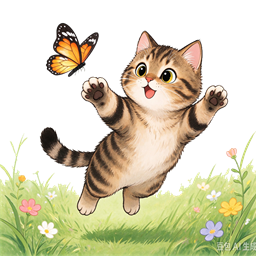
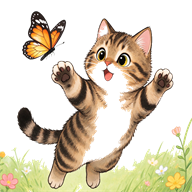
悬浮栏右键菜单加「主题」子菜单；装饰图统一成 192×192（与熊猫一致）
1) 主题切换菜单
   - 右键菜单：中文输入 / 简繁输出 / 主题 ▸（熊猫（默认）·狸花猫·中华田园犬·丹顶鹤，当前项打勾）/ 设置… / 版本号；
   - 命令 id 100+n = 切到第 n 套主题（顺序与 TSF 里 OnBarClick 的表、Settings::Theme 取值一致）；
   - 切换时写 config.ini + 本进程 ApplySettings + BroadcastSettingsReload() 通知其它进程的
     悬浮栏/候选窗一起重读（等于设置窗口保存时那套机制）。

2) 装饰图尺寸对齐熊猫
   - 之前猫咪装饰图是 256²，且猫在画面里偏小；现在裁掉底部草地、按内容裁边后输出 **192×192**，
     内容占比 192×181（熊猫是 182×178），在候选窗里两者视觉大小一致；
   - 狗/鹤的装饰图也统一缩到 192×192。

实测截图：theme-art-compare.png（左熊猫右狸花猫，同一候选窗尺寸下的右下角装饰）。
verify.ps1 106 项全 PASS。

diff --git a/src/tsf/wubi_tsf.cpp b/src/tsf/wubi_tsf.cpp
@@ -977,6 +977,7 @@ static wubi::StatusBar& SharedBar() {
 // 并立刻通知当前拥有状态栏的那个实例（如果在本进程）马上生效。
 static volatile LONG g_reloadPending = 0;
 static void RequestSettingsReload();   // 定义见下（需要 CTextService 完整类型）
+static void BroadcastSettingsReload(); // 通知本机所有输入法窗口重读配置
 
 void CTextService::BarSync() {
     if (g_barOwner == this)
@@ -984,6 +985,19 @@ void CTextService::BarSync() {
 }
 
 void CTextService::OnBarClick(int idx) {
+    // 右键菜单里的"主题"子菜单：命令 id 100+n（顺序：熊猫/狸花猫/田园犬/丹顶鹤）
+    if (idx >= 100) {
+        static const wchar_t* kThemes[4] = { L"panda", L"cat", L"dog", L"crane" };
+        const int t = idx - 100;
+        if (t >= 0 && t < 4) {
+            m_settings.Theme = kThemes[t];
+            wubi::SaveSettings(GetConfigPath(), m_settings);
+            ApplySettings();                       // 本进程立刻换图标/装饰图
+            BroadcastSettingsReload();             // 通知其它进程的悬浮栏/候选窗也跟上
+            LogLine(L"theme switched from bar menu: %s", m_settings.Theme.c_str());
+        }
+        return;
+    }
     switch (idx) {
     case 0: m_english = !m_english; SetInputModeCompartments(!m_english); break;   // 中/英
     case 1: m_tradEnabled = !m_tradEnabled; m_settings.TradChinese = m_tradEnabled ? 1 : 0;
@@ -1579,6 +1593,18 @@ void CTextService::EnsureComposer() {
 // 激活时调用一次；config.ini 变过的话，MaybeReloadUserWords() 里会再调一次（即时生效）。
 // 系统输入指示器的图标来自注册表里的 IconFile：改主题后写一次（HKCU 优先，不需要管理员）。
 // 说明：shell 只在加载语言配置时读这个值，所以通常要重启 explorer 或重新登录才看到变化。
+// 通知本机所有输入法窗口重读配置（和设置窗口保存时做的事一样）
+static void BroadcastSettingsReload() {
+    const UINT msg = PandaReloadMessage();
+    const wchar_t* classes[] = { L"PandaWubiStatusBar", L"PandaWubiCandidateWnd" };
+    for (const wchar_t* cls : classes) {
+        HWND h = nullptr;
+        while ((h = FindWindowExW(nullptr, h, cls, nullptr)) != nullptr) {
+            PostMessageW(h, msg, 0, 0);
+        }
+    }
+}
+
 static void UpdateIndicatorIconFile(const std::wstring& icoName) {
     wchar_t dll[MAX_PATH] = { 0 };
     GetModuleFileNameW(g_hInst, dll, ARRAYSIZE(dll) - 1);
@@ -1622,6 +1648,7 @@ void CTextService::ApplySettings() {
     const int themeArtId = crane ? 8 : (dog ? 6 : (cat ? 4 : 3));   // 3=熊猫 4=狸花猫 6=田园犬 8=丹顶鹤
     m_candWnd.SetArtId(themeArtId);                             // 候选窗右下角装饰图
     SharedBar().SetIconFile(themeIcon);                         // 悬浮栏最左边的 Logo
+    SharedBar().SetThemeIndex(crane ? 3 : (dog ? 2 : (cat ? 1 : 0)));   // 右键菜单里打勾
     LogLine(L"theme: %s (art=%d, icon=%s)", m_settings.Theme.c_str(), themeArtId, themeIcon);
     UpdateIndicatorIconFile(themeIcon);   // 系统输入指示器的图标（需重新登录/重启 explorer 才刷新）
     BarSync();

diff --git a/src/tsf/wubi_bar.cpp b/src/tsf/wubi_bar.cpp
@@ -92,6 +92,9 @@ void StatusBar::Destroy() {
 
 static int S(int v, int dpi);   // 定义在后（DPI 缩放）
 
+// 主题顺序：必须与 TSF 里 OnBarClick 的表、以及 Settings::Theme 的取值顺序一致
+static const wchar_t* kThemeNames[4] = { L"熊猫（默认）", L"狸花猫", L"中华田园犬", L"丹顶鹤" };
+
 // 产品 Logo：和输入法指示器用同一个 panda.ico。
 // 查找顺序与 TSF 那边保持一致：DLL 同目录 panda.ico -> %LOCALAPPDATA%\PandaWubi\panda.ico -> DLL 自带图标。
 void StatusBar::LoadIcon_() {
@@ -240,6 +243,14 @@ void StatusBar::SetIconFile(const std::wstring& name) {
     if (hwnd_) InvalidateRect(hwnd_, nullptr, FALSE);
 }
 
+void StatusBar::SetThemeIndex(int idx) {
+    if (idx < 0) idx = 0;
+    if (idx > 3) idx = 3;
+    if (themeIdx_ == idx) return;
+    themeIdx_ = idx;
+    if (hwnd_) InvalidateRect(hwnd_, nullptr, FALSE);   // 菜单每次弹出时重建，这里只是保持一致
+}
+
 void StatusBar::SetState(bool english, bool trad) {
     english_ = english;
     trad_ = trad;
@@ -379,6 +390,13 @@ LRESULT CALLBACK StatusBar::WndProc(HWND hwnd, UINT msg, WPARAM wp, LPARAM lp) {
         HMENU menu = CreatePopupMenu();
         AppendMenuW(menu, MF_STRING | (self->english_ ? 0 : MF_CHECKED), 1, L"中文输入");
         AppendMenuW(menu, MF_STRING | (self->trad_ ? MF_CHECKED : 0), 2, L"简繁输出");
+        // 主题子菜单：命令 id 100+n 表示"切到第 n 套主题"（顺序与 TSF 里的表一致）
+        HMENU themeMenu = CreatePopupMenu();
+        for (int i = 0; i < 4; ++i) {
+            AppendMenuW(themeMenu, MF_STRING | (self->themeIdx_ == i ? MF_CHECKED : 0),
+                        100 + i, kThemeNames[i]);
+        }
+        AppendMenuW(menu, MF_POPUP, (UINT_PTR)themeMenu, L"主题");
         AppendMenuW(menu, MF_SEPARATOR, 0, nullptr);
         AppendMenuW(menu, MF_STRING, 3, L"设置...");
         AppendMenuW(menu, MF_STRING, 4, PANDA_WUBI_VERSION_FULL);
@@ -390,6 +408,7 @@ LRESULT CALLBACK StatusBar::WndProc(HWND hwnd, UINT msg, WPARAM wp, LPARAM lp) {
         PostMessageW(hwnd, WM_NULL, 0, 0);
 
         if (cmd >= 1 && cmd <= 4 && self->onClick_) self->onClick_(cmd - 1);
+        else if (cmd >= 100 && cmd <= 103 && self->onClick_) self->onClick_(cmd);   // 100+n = 切主题
         return 0;
     }
     case WM_MOUSEACTIVATE:

diff --git a/src/tsf/wubi_bar.h b/src/tsf/wubi_bar.h
@@ -30,7 +30,8 @@ public:
     bool Wanted()  const { return want_; }
 
     void SetState(bool english, bool trad);
-    void SetIconFile(const std::wstring& name);   // 主题：panda.ico / cat.ico
+    void SetIconFile(const std::wstring& name);   // 主题：panda.ico / cat.ico / dog.ico / crane.ico
+    void SetThemeIndex(int idx);                  // 当前主题序号（右键菜单打勾用）
     void Reposition(int x, int y);
 
 private:
@@ -54,6 +55,7 @@ private:
     bool trad_    = false;
     HICON icon_   = nullptr;   // 最左边的产品 Logo
     std::wstring iconName_ = L"panda.ico";   // 当前主题的图标文件名
+    int themeIdx_ = 0;                       // 0=熊猫 1=狸花猫 2=田园犬 3=丹顶鹤
 
 
     int  dpi_ = 96;

diff --git a/docs/test-guide.md b/docs/test-guide.md
@@ -210,7 +210,7 @@ TSF 的输入法目录是机器级的：`ITfInputProcessorProfiles` 读写
 | 主题 | 悬浮栏 Logo | 候选窗右下角装饰 | 输入指示器图标 |
 |---|---|---|---|
 | `熊猫（默认）` | panda.ico | 熊猫吃竹子 | panda.ico |
-| `狸花猫` | cat.ico | **整幅「狸花猫扑蝴蝶」抠图**（去背景，和熊猫竹子图一样） | cat.ico |
+| `狸花猫` | cat.ico | **整幅「狸花猫扑蝴蝶」抠图**（去背景、192×192，和熊猫竹子图同一尺寸/占比） | cat.ico |
 | `中华田园犬` | dog.ico | 田园犬头像（原图左右镜像，改为向左奔跑） | dog.ico |
 | `丹顶鹤` | crane.ico | 丹顶鹤头像（原图左右镜像） | crane.ico |
 
@@ -227,7 +227,9 @@ TSF 的输入法目录是机器级的：`ITfInputProcessorProfiles` 读写
 - 进程内唯一：TSF 会为每个线程各建一个 `CTextService` 实例，实例共用一条栏，实例计数归零才销毁窗口；
 - 只在宿主进程处于前台时显示（线程焦点回调立即响应，500ms 前台自检兜底），所以切走应用后不会留下一条悬在别人窗口上；
 - 最左边是产品 Logo（和输入法指示器同一个 `panda.ico`），这块也是拖动区；
-- 状态栏点击回到"当前拥有者"实例：`中/英`、`简/繁`、`⚙`（打开设置）三项，都走同一份 `config.ini`；\n- 原来的「，。」（全角/半角 · 中文标点）那一格**已移除**：需要半角时切到英文模式即可，\n  中文标点仍可在设置窗口或 `Ctrl+Shift+P` 里调整。\n- 右键菜单：中文输入 / 简繁输出 / 设置… / 版本号。\n- 悬浮栏位置会先夹到当前屏幕工作区内：config.ini 里的旧坐标可能来自别的分辨率或已拔掉的显示器\n  （实测存过 6136,3091，整条栏跑到屏幕外），现在会自动回落到右下角。
+- 状态栏点击回到"当前拥有者"实例：`中/英`、`简/繁`、`⚙`（打开设置）三项，都走同一份 `config.ini`；
+- **右键菜单**：中文输入 / 简繁输出 / **主题 ▸**（熊猫·狸花猫·中华田园犬·丹顶鹤，当前项打勾）/ 设置… / 版本号。
+  在菜单里切主题等价于改 `Theme`：本进程立刻生效，并给其它进程的悬浮栏/候选窗广播"重读配置"。\n- 原来的「，。」（全角/半角 · 中文标点）那一格**已移除**：需要半角时切到英文模式即可，\n  中文标点仍可在设置窗口或 `Ctrl+Shift+P` 里调整。\n- 右键菜单：中文输入 / 简繁输出 / 设置… / 版本号。\n- 悬浮栏位置会先夹到当前屏幕工作区内：config.ini 里的旧坐标可能来自别的分辨率或已拔掉的显示器\n  （实测存过 6136,3091，整条栏跑到屏幕外），现在会自动回落到右下角。
 
 回归测试（不需要注册、不依赖 HKLM）：
 
